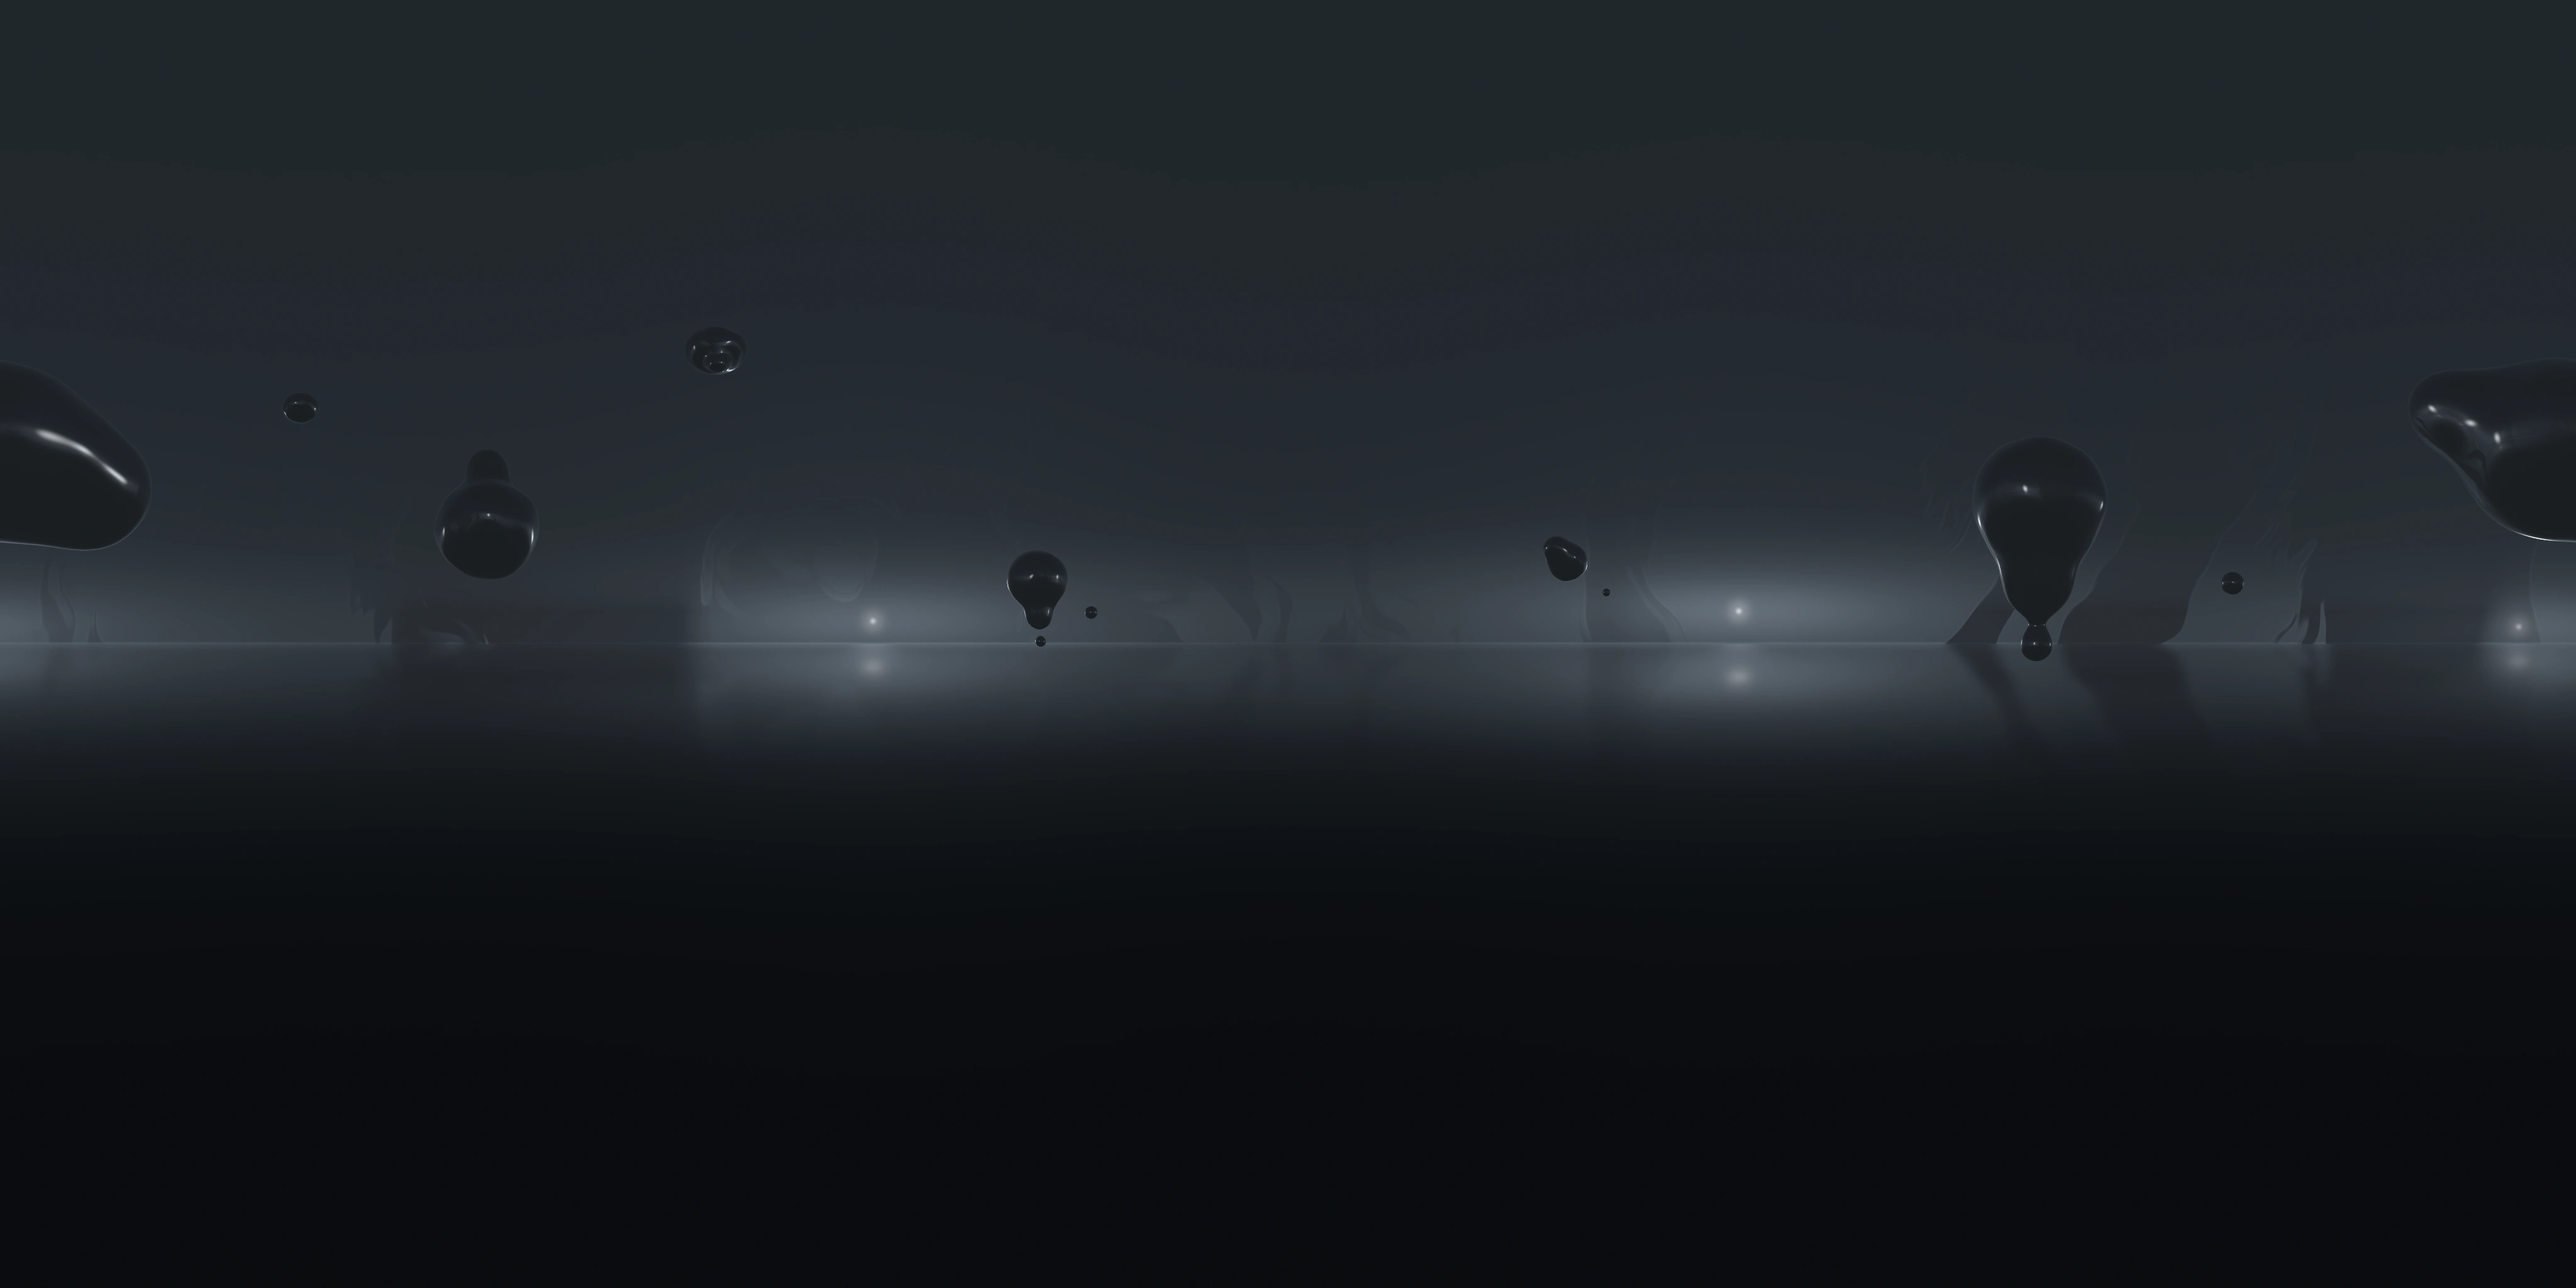
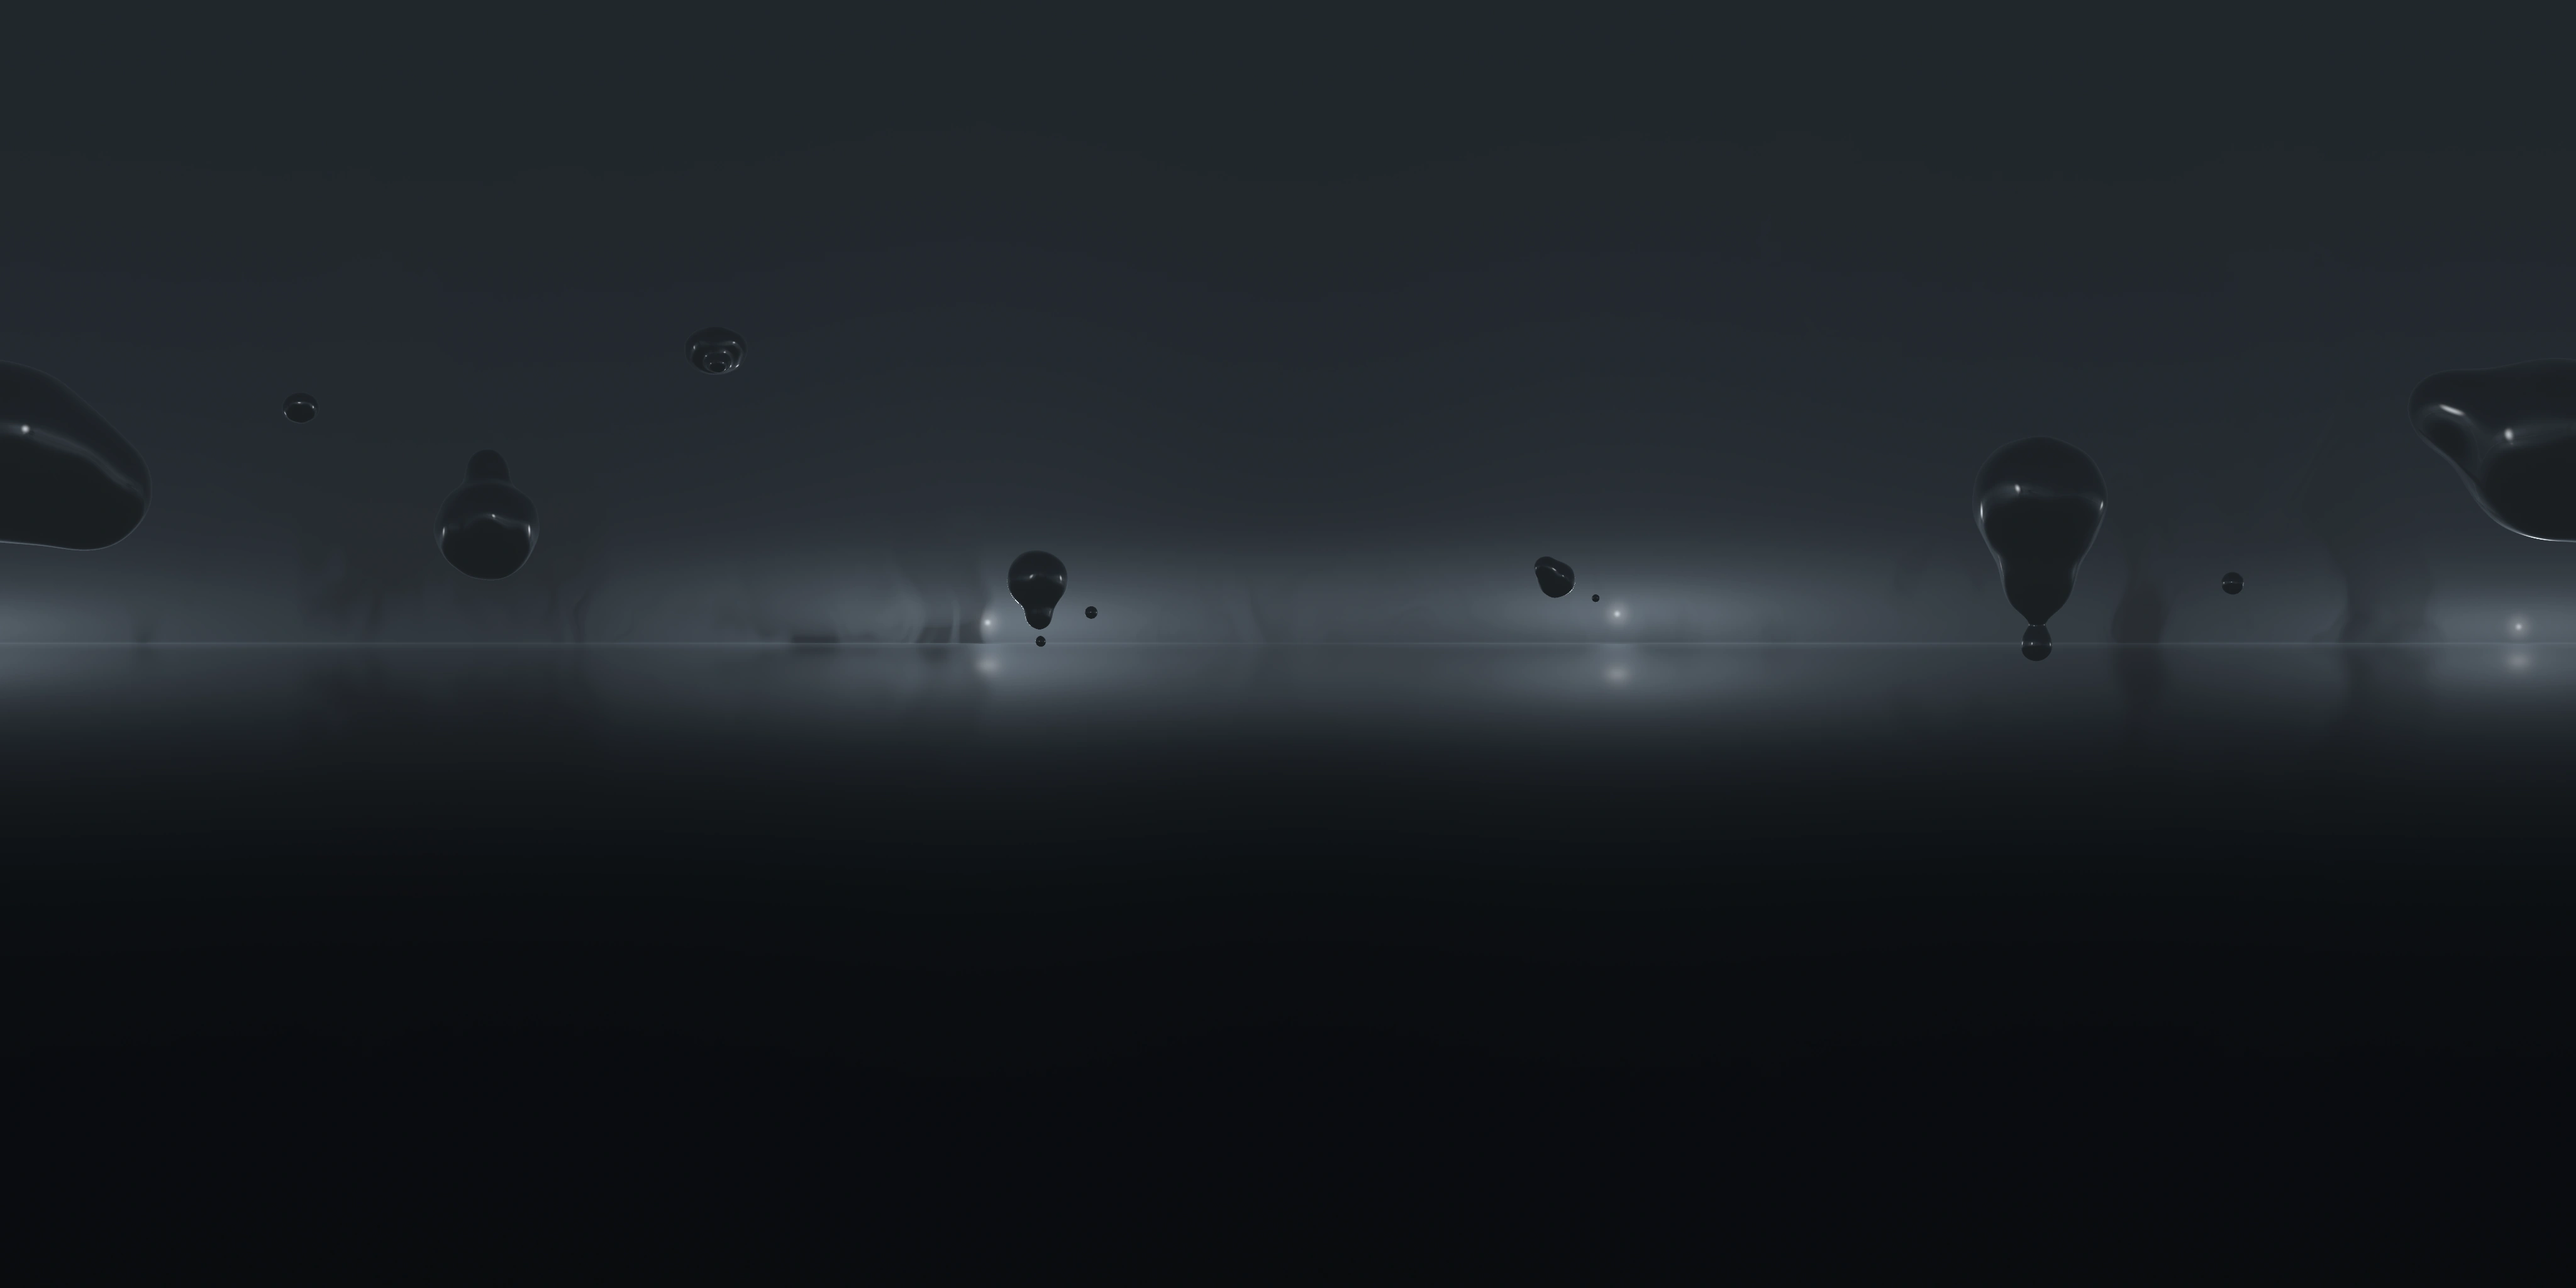
theme-obsidian: WIP (Limit-Stopp)

diff --git a/tools/gen_theme_obsidian.py b/tools/gen_theme_obsidian.py
@@ -51,7 +51,7 @@ OUT_DIR = os.path.join(ROOT, "assets_game", "themes", "obsidian")
 
 # Lichtquellen (Laenge, Breite in Grad; Staerke). Gleiche Werte im Shader
 # (light_a / light_b / light_c), damit Wellen-Glanz und Himmel zusammenpassen.
-LIGHTS = [(-58.0, 3.2, 1.0), (63.0, 4.6, 0.8), (172.0, 2.4, 0.45)]
+LIGHTS = [(-42.0, 3.0, 1.0), (46.0, 4.2, 0.8), (172.0, 2.4, 0.45)]
 WAVE_SLOPE = 1.0  # Steigungsbereich der Wellen-Ebene (+-), Shader: wave_slope
 
 
@@ -158,26 +158,33 @@ def paint_sky(P, rng):
     # Duenne kalte Horizontlinie (Weltkante), vorn ausgeblendet.
     line = np.exp(-(E / 0.22) ** 2) * 0.030 * az * up
 
-    # Tintenschwaden: vertikal gestreckt, verwirbelt, steigen vom Horizont.
+    # Tintenschwaden: steigen vom Horizont, zweifach verwirbelt (Tinte in Wasser).
     H, W = P.H, P.W
-    wx = fbm2(rng, H, W, base=(2, 5), octaves=5)
-    wy = fbm2(rng, H, W, base=(2, 5), octaves=5)
+    sc = W / 4096.0
     yy, xx = np.mgrid[0:H, 0:W].astype(F32)
-    n = fbm2(rng, H, W, base=(3, 20), octaves=6, gain=0.58)
-    n = ndimage.map_coordinates(n, [yy + wy * 120.0, xx + wx * 260.0], order=1, mode="grid-wrap")
-    rise = np.exp(-Ep / 14.0) * up  # nur ueber dem Horizont
+    w1x = fbm2(rng, H, W, base=(3, 9), octaves=5)
+    w1y = fbm2(rng, H, W, base=(3, 9), octaves=5)
+    w2x = fbm2(rng, H, W, base=(8, 28), octaves=4)
+    w2y = fbm2(rng, H, W, base=(8, 28), octaves=4)
+    n = fbm2(rng, H, W, base=(2, 11), octaves=6, gain=0.5)
+    cy = yy + (w1y * 90.0 + w2y * 26.0) * sc
+    cx = xx + (w1x * 200.0 + w2x * 40.0) * sc
+    n = ndimage.map_coordinates(n, [cy, cx], order=1, mode="grid-wrap")
+    # Schwaden-Hoehe je Laenge verschieden (4..22 Grad).
+    top = 4.0 + 18.0 * smoothstep(-0.45, 0.45, fbm2(rng, 8, W, base=(1, 9), octaves=4)[4])[None, :]
+    rise = np.exp(-Ep / top) * up  # nur ueber dem Horizont
     col_mask = smoothstep(-0.05, 0.35, fbm2(rng, H, W, base=(1, 7), octaves=3))
-    dens = smoothstep(0.0, 0.16, n + 0.25 * col_mask - 0.10)
-    dens = dens * np.clip(rise * 1.4, 0.0, 1.0) * (0.45 + 0.55 * col_mask)
-    dens = dens.astype(F32)
-    # Kante: Gradient der Dichte, nur auf der dem Licht zugewandten Seite.
-    gy, gx = np.gradient(ndimage.gaussian_filter(dens, 1.2))
-    edge = np.clip(np.sqrt(gx * gx + gy * gy) * 9.0, 0.0, 1.0) * dens * (1.0 - dens) * 4.0
+    dens = smoothstep(-0.10, 0.30, n + 0.25 * col_mask - 0.08)
+    dens = dens * np.clip(rise * 1.3, 0.0, 1.0) * (0.40 + 0.60 * col_mask)
+    dens = ndimage.gaussian_filter(dens.astype(F32), 1.0 * sc)
+    # Kalte Kante nur an der Oberseite der Schwaden (Licht von hinten unten).
+    gy = np.gradient(ndimage.gaussian_filter(dens, 2.0 * sc), axis=0)
+    edge = np.clip(gy * 14.0 / sc, 0.0, 1.0) * up
     behind = glow[..., None] * STEEL + core[..., None] * STEEL_HI + line[..., None] * STEEL
-    occl = 1.0 - 0.93 * dens
+    occl = 1.0 - 0.92 * dens
     P.img *= (1.0 - 0.80 * dens)[..., None]
     P.img += behind * occl[..., None]
-    P.img += (edge * (glow * 0.6 + 0.004 * az) * up)[..., None] * STEEL
+    P.img += (edge * (glow * 0.35 + 0.0025 * az))[..., None] * STEEL
     P.img += (dens * 0.0006)[..., None] * INK / INK.max()
 
 
@@ -321,9 +328,9 @@ def paint_drops(P, rng):
         Drop(-35.0, 9.0, 4.2, [((0, 0, 0), 1.0, 0.4), ((0.15, -1.25, 0.1), 0.42, 0.55),
                               ((0.2, -2.05, 0.1), 0.16, 0.35)], 0.025, rng.integers(1 << 30)),
         Drop(-27.5, 4.4, 0.9, [((0, 0, 0), 1.0, 0.3)], 0.02, rng.integers(1 << 30)),
-        Drop(39.0, 11.5, 2.8, [((0, 0, 0), 1.0, 0.4), ((-0.9, 0.55, 0.2), 0.55, 0.6)], 0.03,
+        Drop(37.5, 9.0, 2.6, [((0, 0, 0), 1.0, 0.4), ((-0.9, 0.55, 0.2), 0.55, 0.6)], 0.03,
              rng.integers(1 << 30)),
-        Drop(44.5, 7.2, 0.55, [((0, 0, 0), 1.0, 0.3)], 0.0, rng.integers(1 << 30)),
+        Drop(43.0, 6.4, 0.55, [((0, 0, 0), 1.0, 0.3)], 0.0, rng.integers(1 << 30)),
         Drop(105.0, 20.0, 9.0, [((0, 0, 0), 1.0, 0.5), ((0.1, -1.3, 0.0), 0.5, 0.7),
                                 ((0.15, -2.2, 0.0), 0.22, 0.4), ((0.8, 0.7, 0.3), 0.45, 0.6)],
              0.03, rng.integers(1 << 30)),
